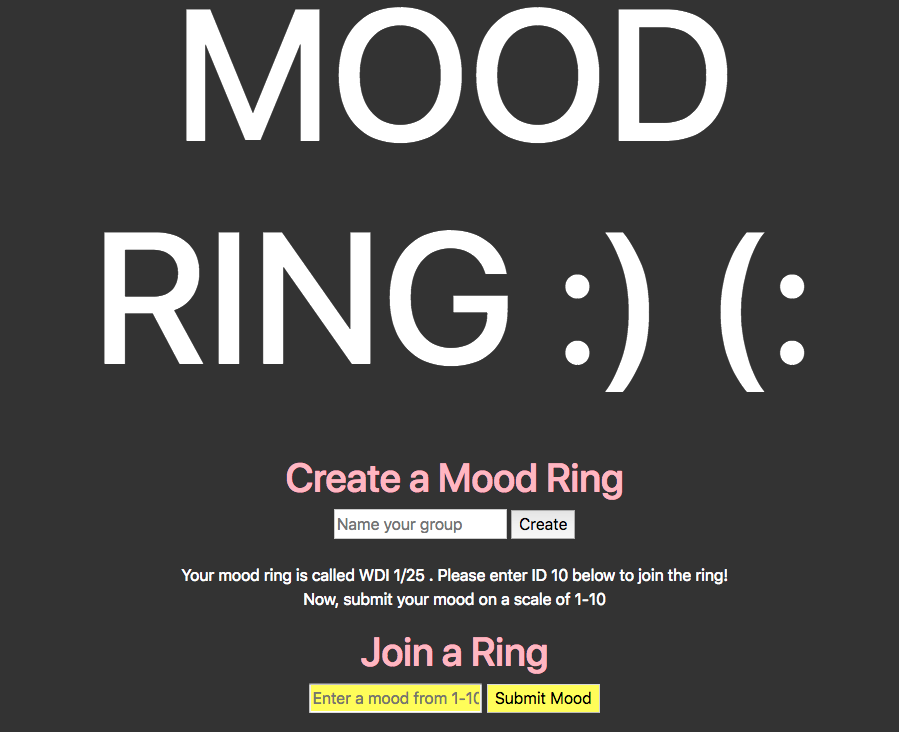
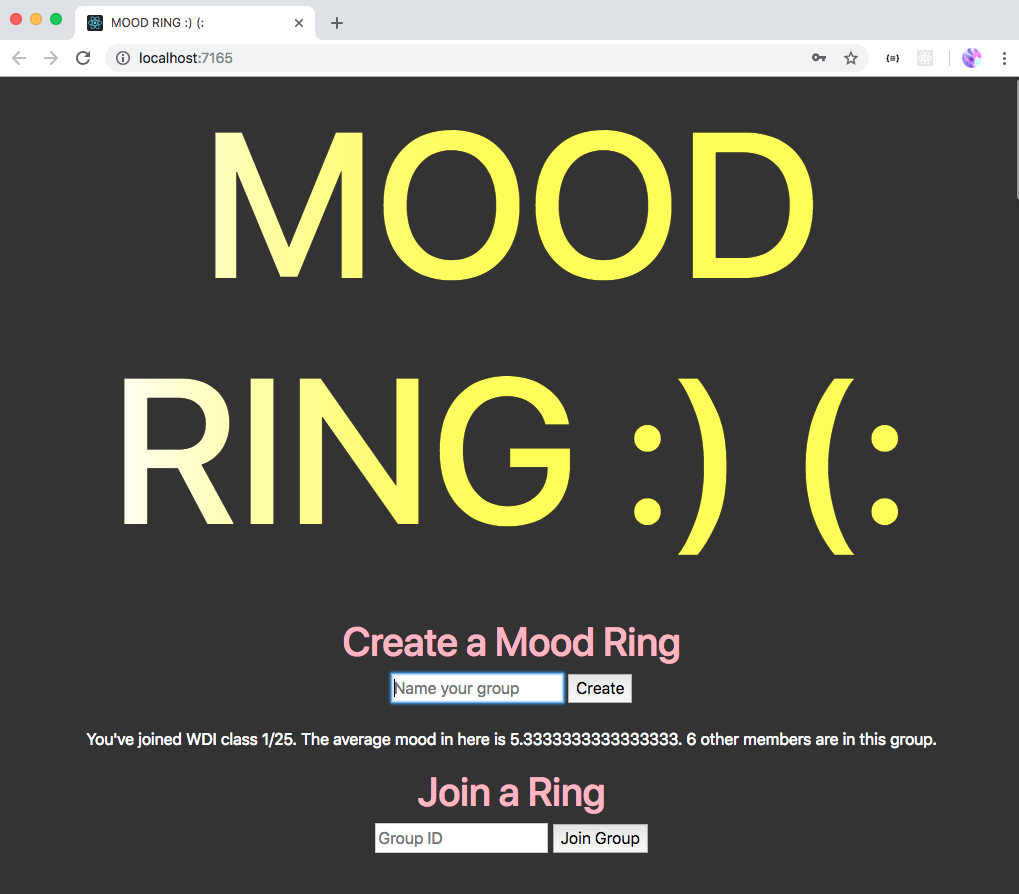
README edits, changed average mood message, add wireframes

diff --git a/assets/scripts/groups/ui.js b/assets/scripts/groups/ui.js
@@ -44,7 +44,7 @@ const deleteGroupFailure = data => {
 
 const createUserGroupSuccess = data => {
   store.user_groups = data.user_groups
-  $('#groupmessage').text(`You've joined ${data.user_group.group.name}. The average mood in here is ${data.user_group.group.averagemood}. ${data.user_group.group.numberofparticipants} `)
+  $('#groupmessage').text(`You've joined ${data.user_group.group.name}. The average mood in here is ${data.user_group.group.averagemood}. ${data.user_group.group.numberofparticipants} other members are in this group. `)
   $('#moodbox_id').val('')
   $('#message').text('')
   console.log('createUserGroup ran. Data is :', data)

diff --git a/README.md b/README.md
@@ -1,4 +1,4 @@
-<b>mood-ring client</b>
+<b>mood-ring Client</b>
 
 _______
 
@@ -11,4 +11,48 @@ Here are the links to the <a href="https://dbenbass.github.io/mood-ring-client">
 
 _______
 
-<img src="public/moodring.jpg">
+<b>The gist</b>
+
+1. A user logs in.
+2. The user creates a mood-ring.
+3. The user then adds their mood on a numerical scale of 1-10 (1 being ultimate bad mood, 10 being filled with uncontrollable glee.)
+4. They can then tell their friends, colleagues, strangers at a store in the mall, etc to visit the app and enter the id for that user's mood-ring.
+5. They all add their moods to the ring, and a numerical average is pumped out.
+6. Whoever created the ring can change it's name or delete it.
+7. Anyone can see a list of all of the mood-rings created, or one specific ring.
+8. The user can log out and change their password.
+_______
+
+<b>Some Thoughts / Planning</b>
+
+I thought it would be interesting to create an app that focused on the general "vibe" of a group of people. I was curious to see how behavior would change knowing that the mood of a group was low.
+Would people alter their behavior in order to raise the mood of the ring that they were part of? If the general mood of the ring was high, would people be encouraged to help each other stay there?
+
+I imagined it as an interesting thing for a teacher to do before teaching a class, something to use before staff meetings, or as a funny way for friends to commiserate or check in with each other over long distances. There are lots of mood tracker apps, but none that focus on a collective mood that exists during a specific time frame.
+
+I also was excited about experimenting with the humor present in using a precise looking number with tons of decimal points being used to represent something as amorphous and abstract as a mood.
+
+I knew that it would be a challenge to create the back end for this project. I needed to plan my ERD in a way that users could create many mood-rings, be a member of many mood-rings, have different moods in each ring, but only be able to submit one mood per group. With a huge amount of help and research, the resource relationships of the project became more clear. Building the backend of the project was definitely a huge challenge, but it was exciting to see how much functionality can be created in Rails, and I loved seeing how the front end came together with that foundation.
+
+Once I had my backend (relatively) solidified, I ran into many issues regarding update and delete functionality. I circumvented this issue by adding an "owner" column to my groups table. This way, the owner of the group does not have to be logged in to the group they are trying to modify or delete. Navigating through these issues was highly confusing, but now I want to do more of it.
+
+_______
+
+<b>Future Goals</b>
+
+1. I'd love to have a way for someone who creates a mood-ring to send a mood-ring invitation for a specific ring. I feel like entering the group ID is a little bit clunky.
+2. Really excited about doing more styling on this. I want to make the color gradient of the mood-ring banner responsive to the average mood of the ring.
+3. I like the idea of a user only being able to submit one mood per group, because then the ring represents a finite moment in time, but am considering the idea of letting a user submit a new mood after an hour, or something like that.
+4. Maybe it can be an app one day.
+
+_______
+
+<b>Technologies used</b>
+
+<b>Front end</b> - HTML, SCSS, Javascript, jQuery
+<b>Back end</b> - Ruby, Ruby on Rails
+
+_______
+
+<b>Wireframes</b>
+<img src="/public/wireframes.jpg">
